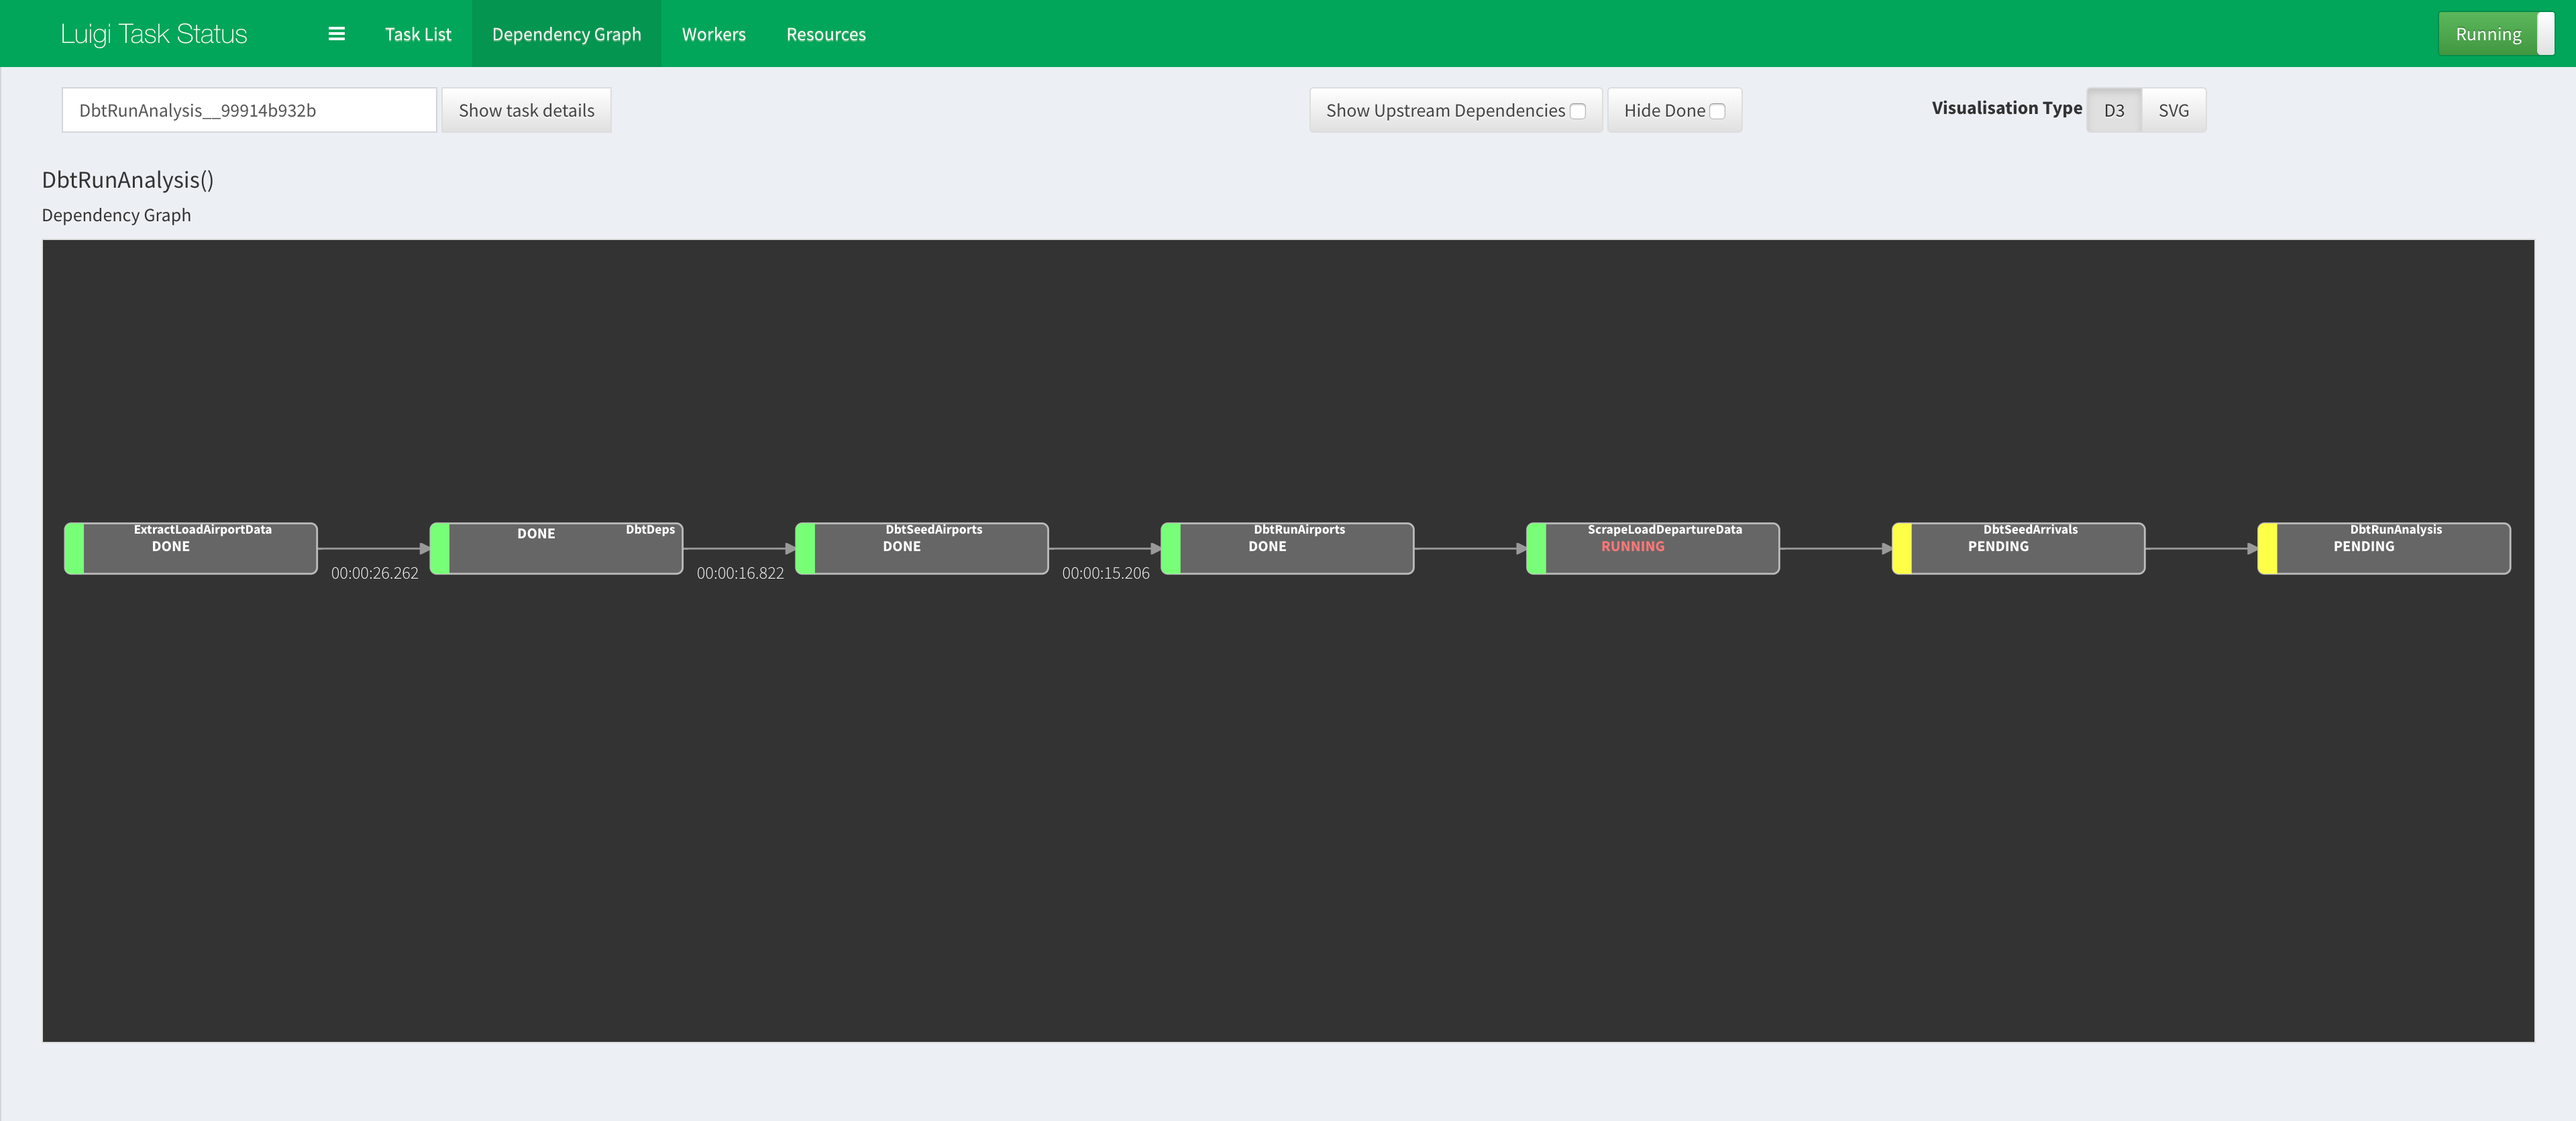
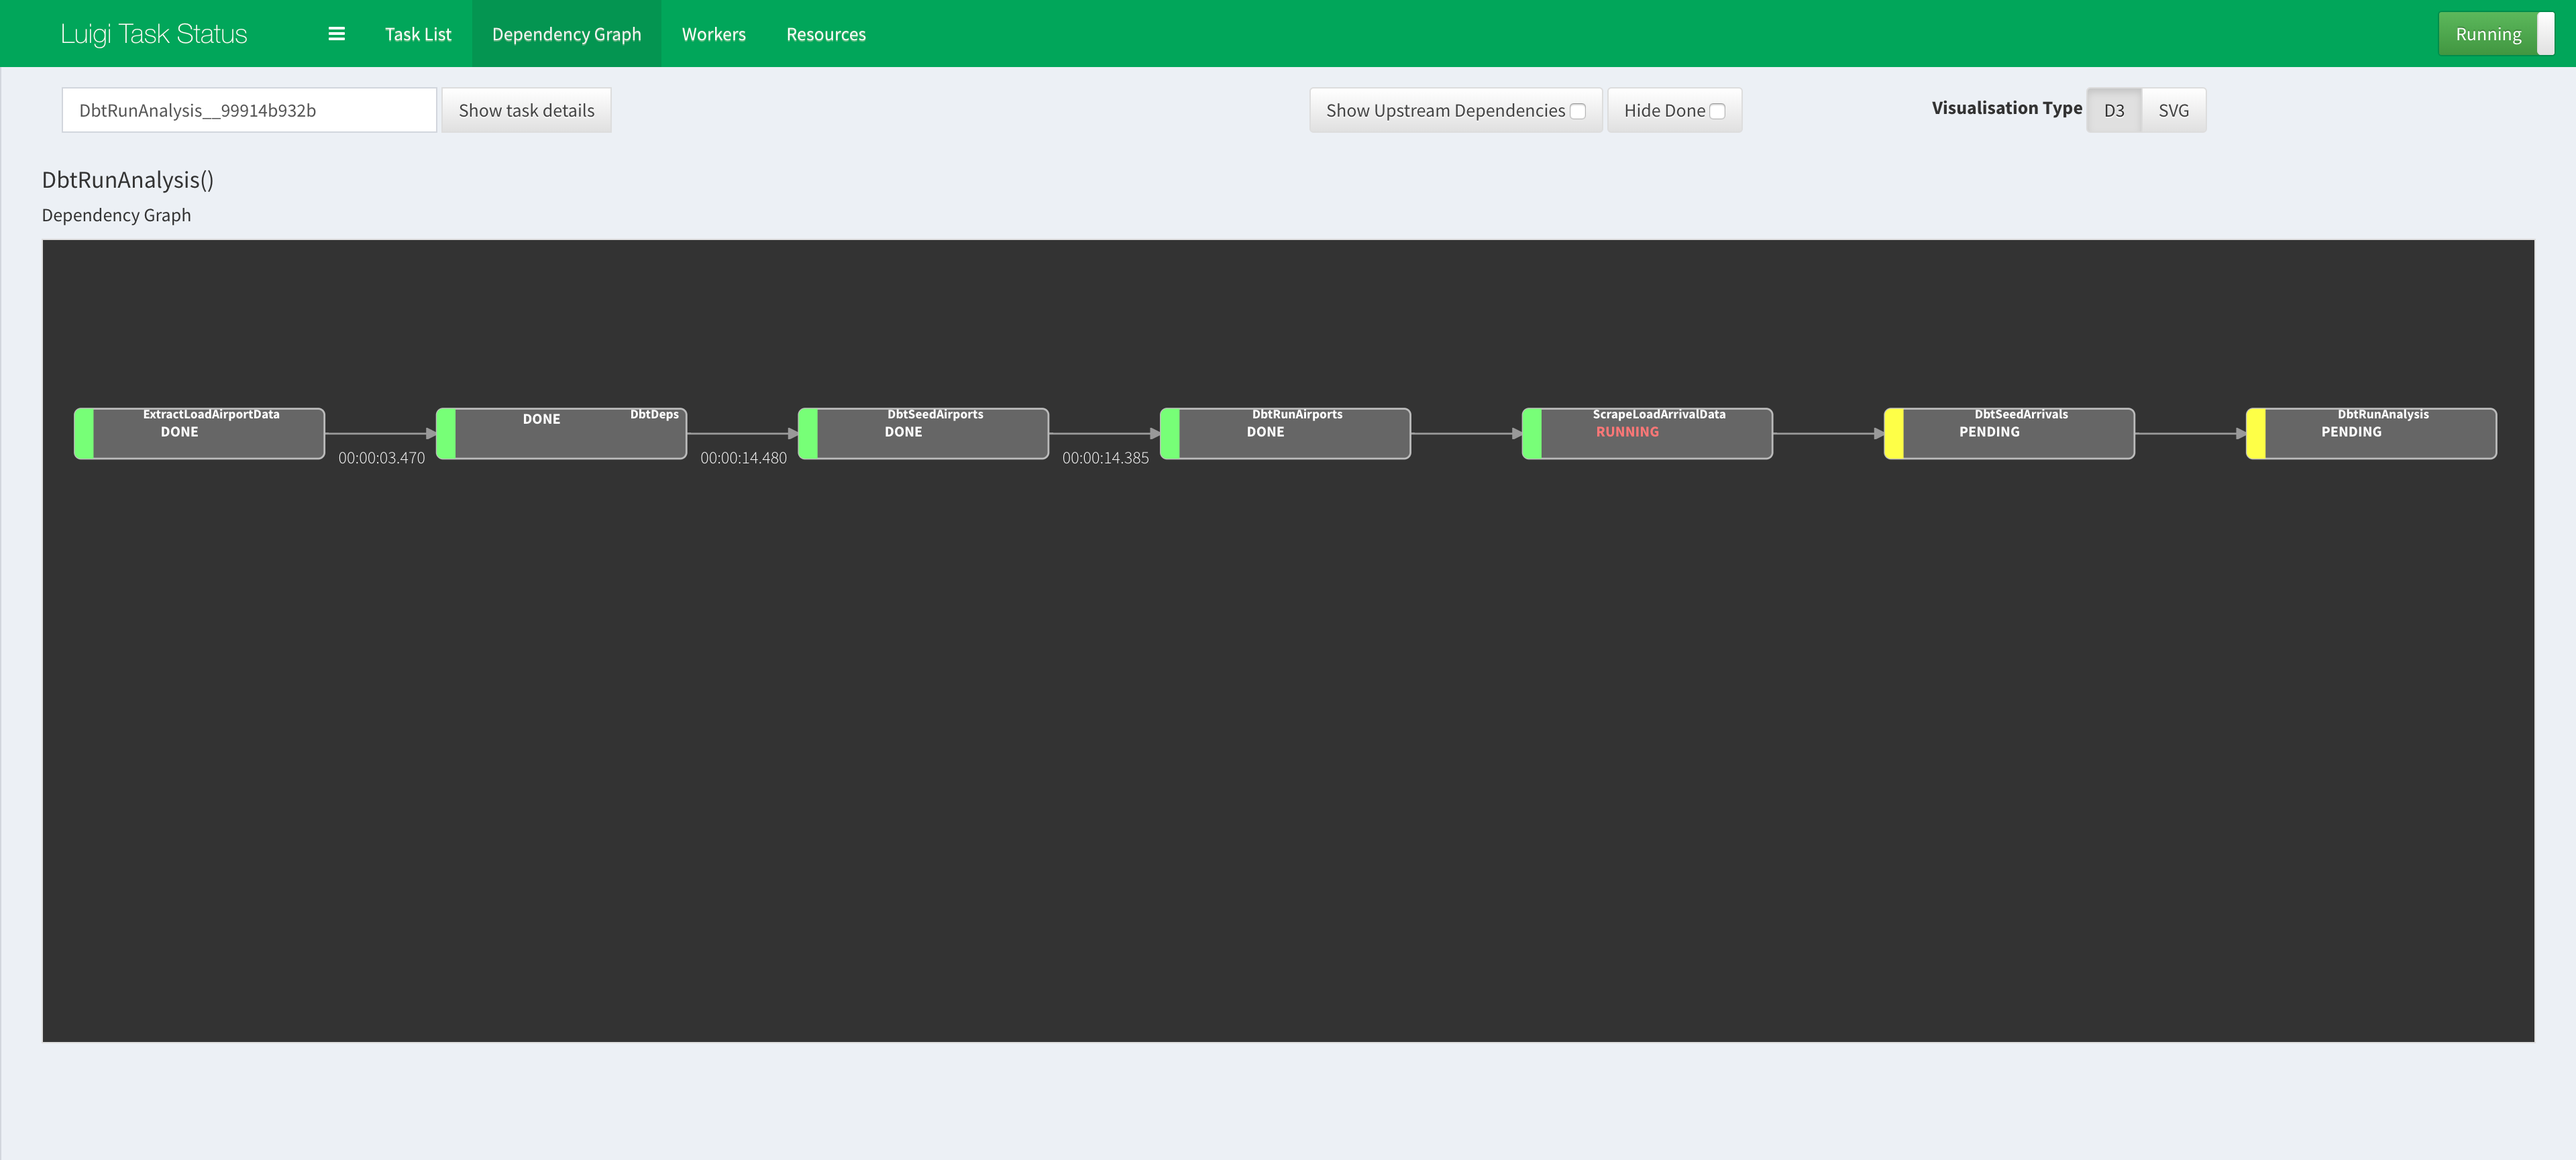
Minor amendment in variable names & documentation image.

diff --git a/workflow.py b/workflow.py
@@ -95,18 +95,18 @@ class DbtRunAirports(luigi.Task):
             outfile.write(exe_cmd)
 
 
-class ScrapeLoadDepartureData(luigi.Task):
+class ScrapeLoadArrivalData(luigi.Task):
 
     def requires(self):
         return DbtRunAirports()
 
     def output(self):
-        return luigi.LocalTarget('4_ScrapeLoadDepartureData.output')
+        return luigi.LocalTarget('4_ScrapeLoadArrivalData.output')
 
     def run(self):
 
         print('=' * 150)
-        print('Scraping and Loading Departure Data - This may take some time...')
+        print('Scraping and Loading Arrival Data - This may take some time...')
         exe_cmd = sp.getoutput('python ./extract_load/arrivals.py')
         print(exe_cmd)
         print('=' * 150)
@@ -117,10 +117,10 @@ class ScrapeLoadDepartureData(luigi.Task):
 
 class DbtSeedArrivals(luigi.Task):
     def requires(self):
-        return ScrapeLoadDepartureData()
+        return ScrapeLoadArrivalData()
 
     def output(self):
-        return luigi.LocalTarget('5_DbtSeedDeparture.output')
+        return luigi.LocalTarget('5_DbtSeedArrival.output')
 
     def run(self):
         exe_cmd = sp.getoutput('cd ./dbt/ && dbt seed --profiles-dir ./')
